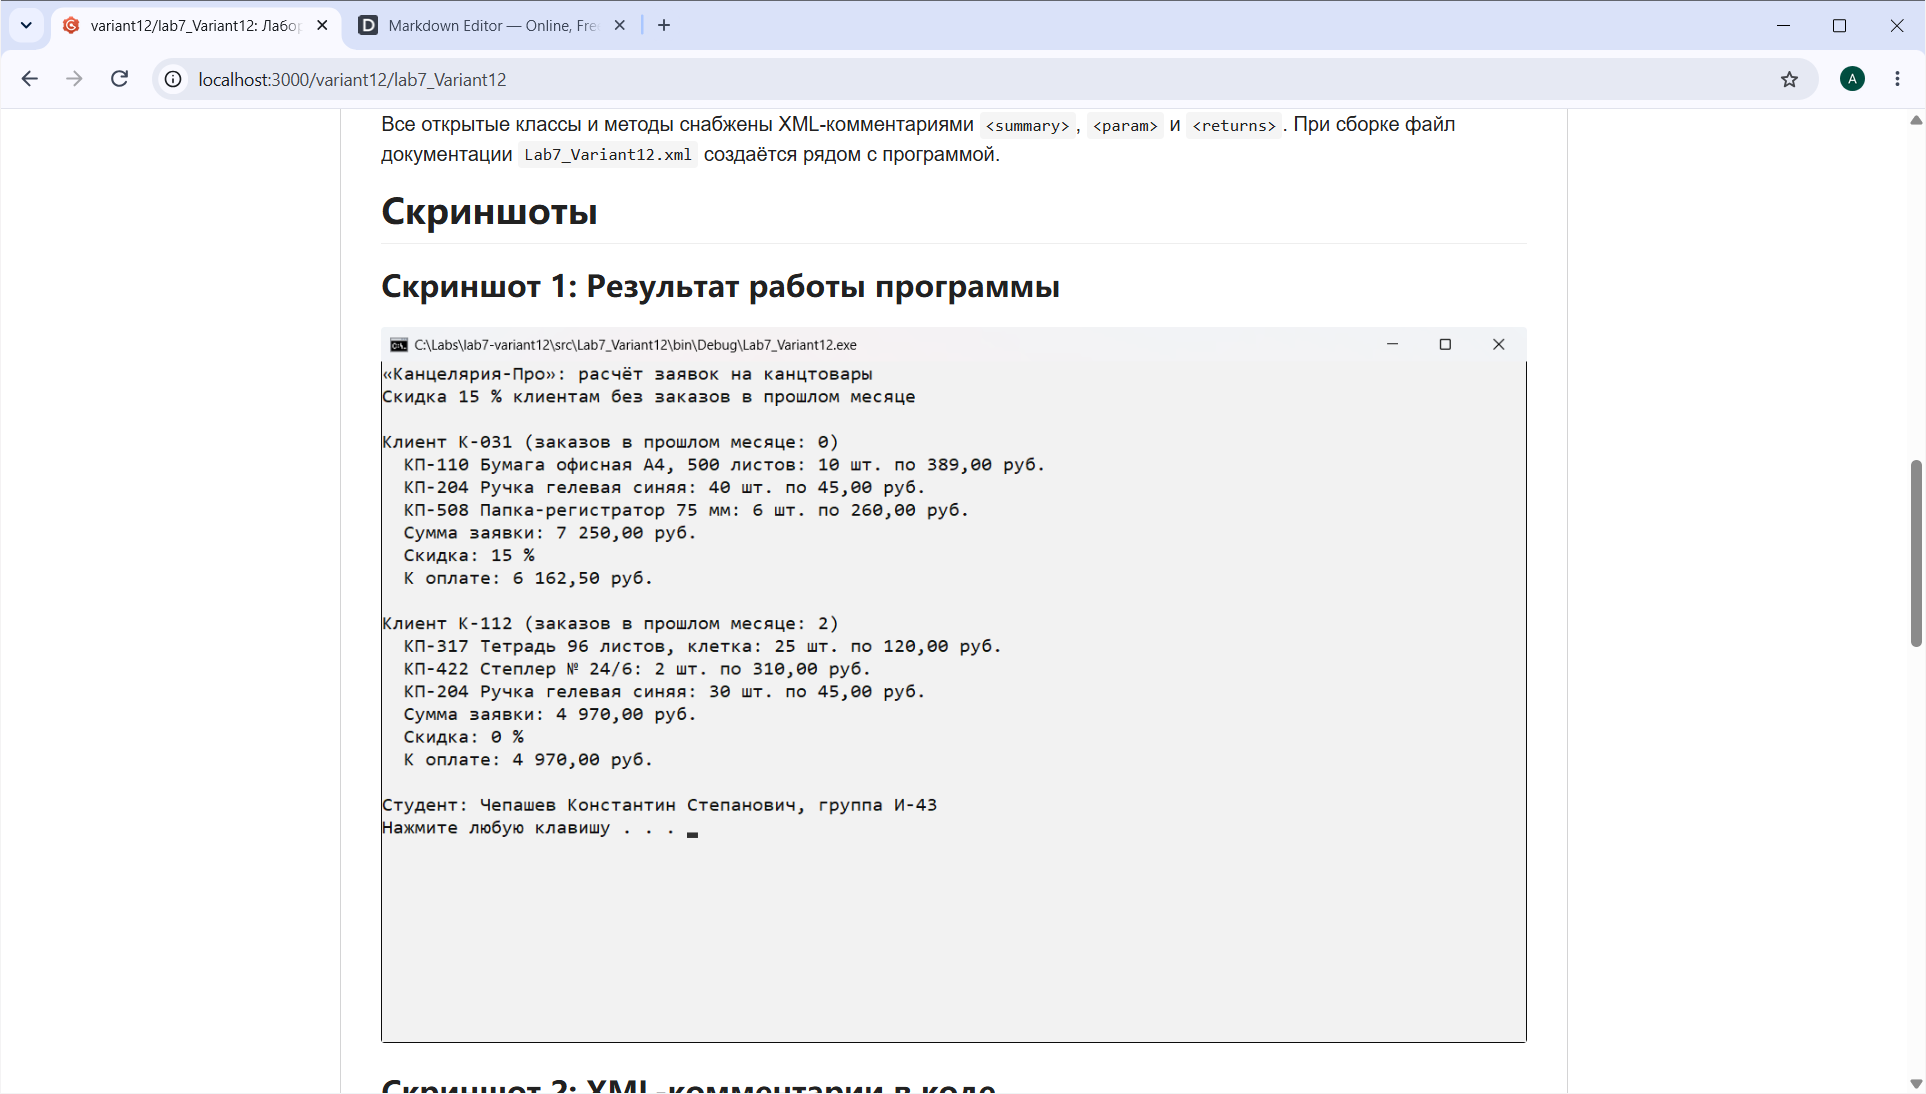
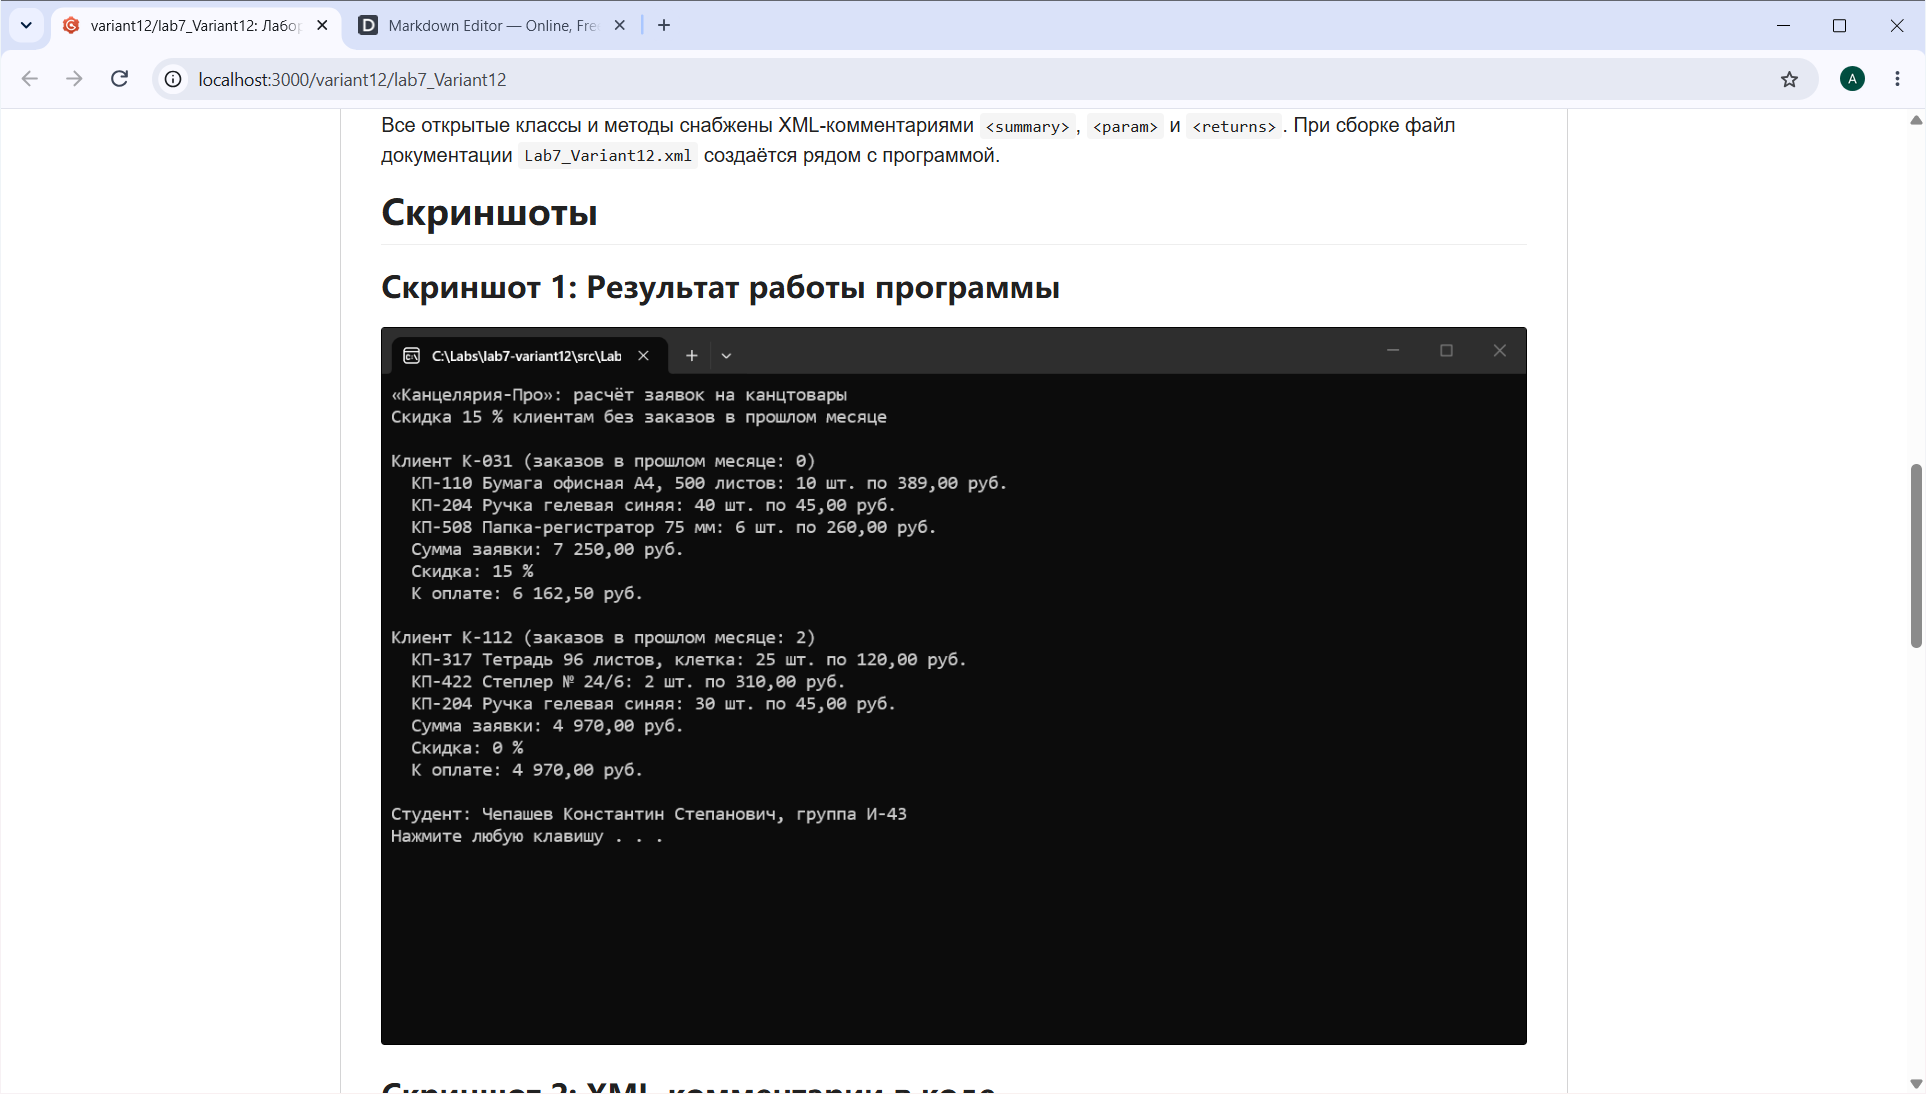
Update console screenshots and repository link

diff --git a/README.md b/README.md
@@ -2,6 +2,8 @@
 
 **Автор:** Чепашев Константин Степанович, группа И-43
 
+**Репозиторий:** https://github.com/CrownCaptainMelt/lab7-variant12
+
 Вариант 12. Консольная программа на C# считает стоимость заявок на канцелярские товары.
 
 ## Что делает программа
